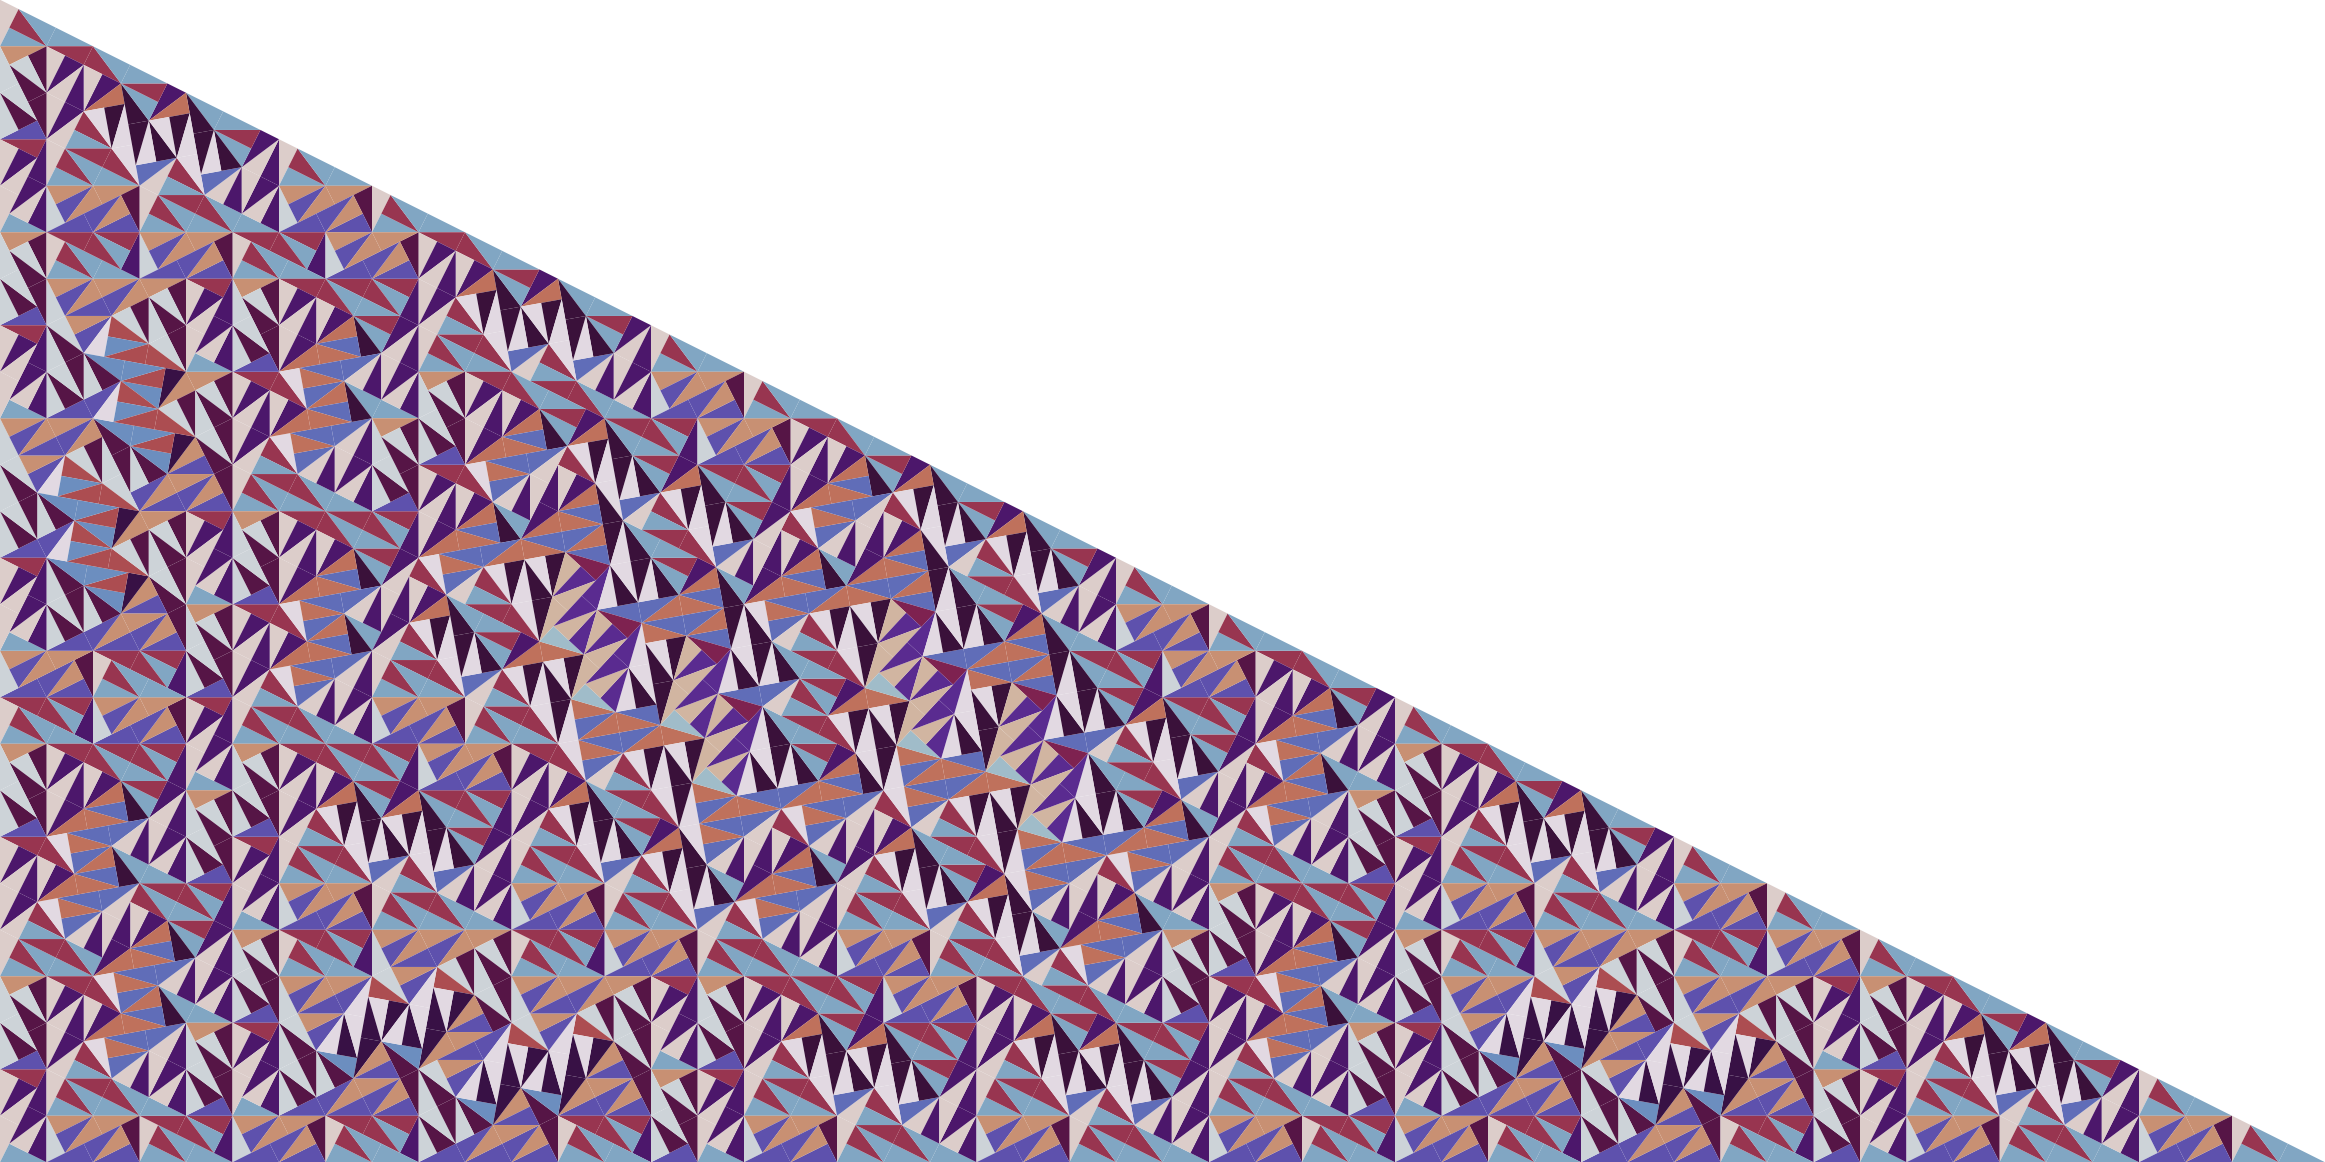
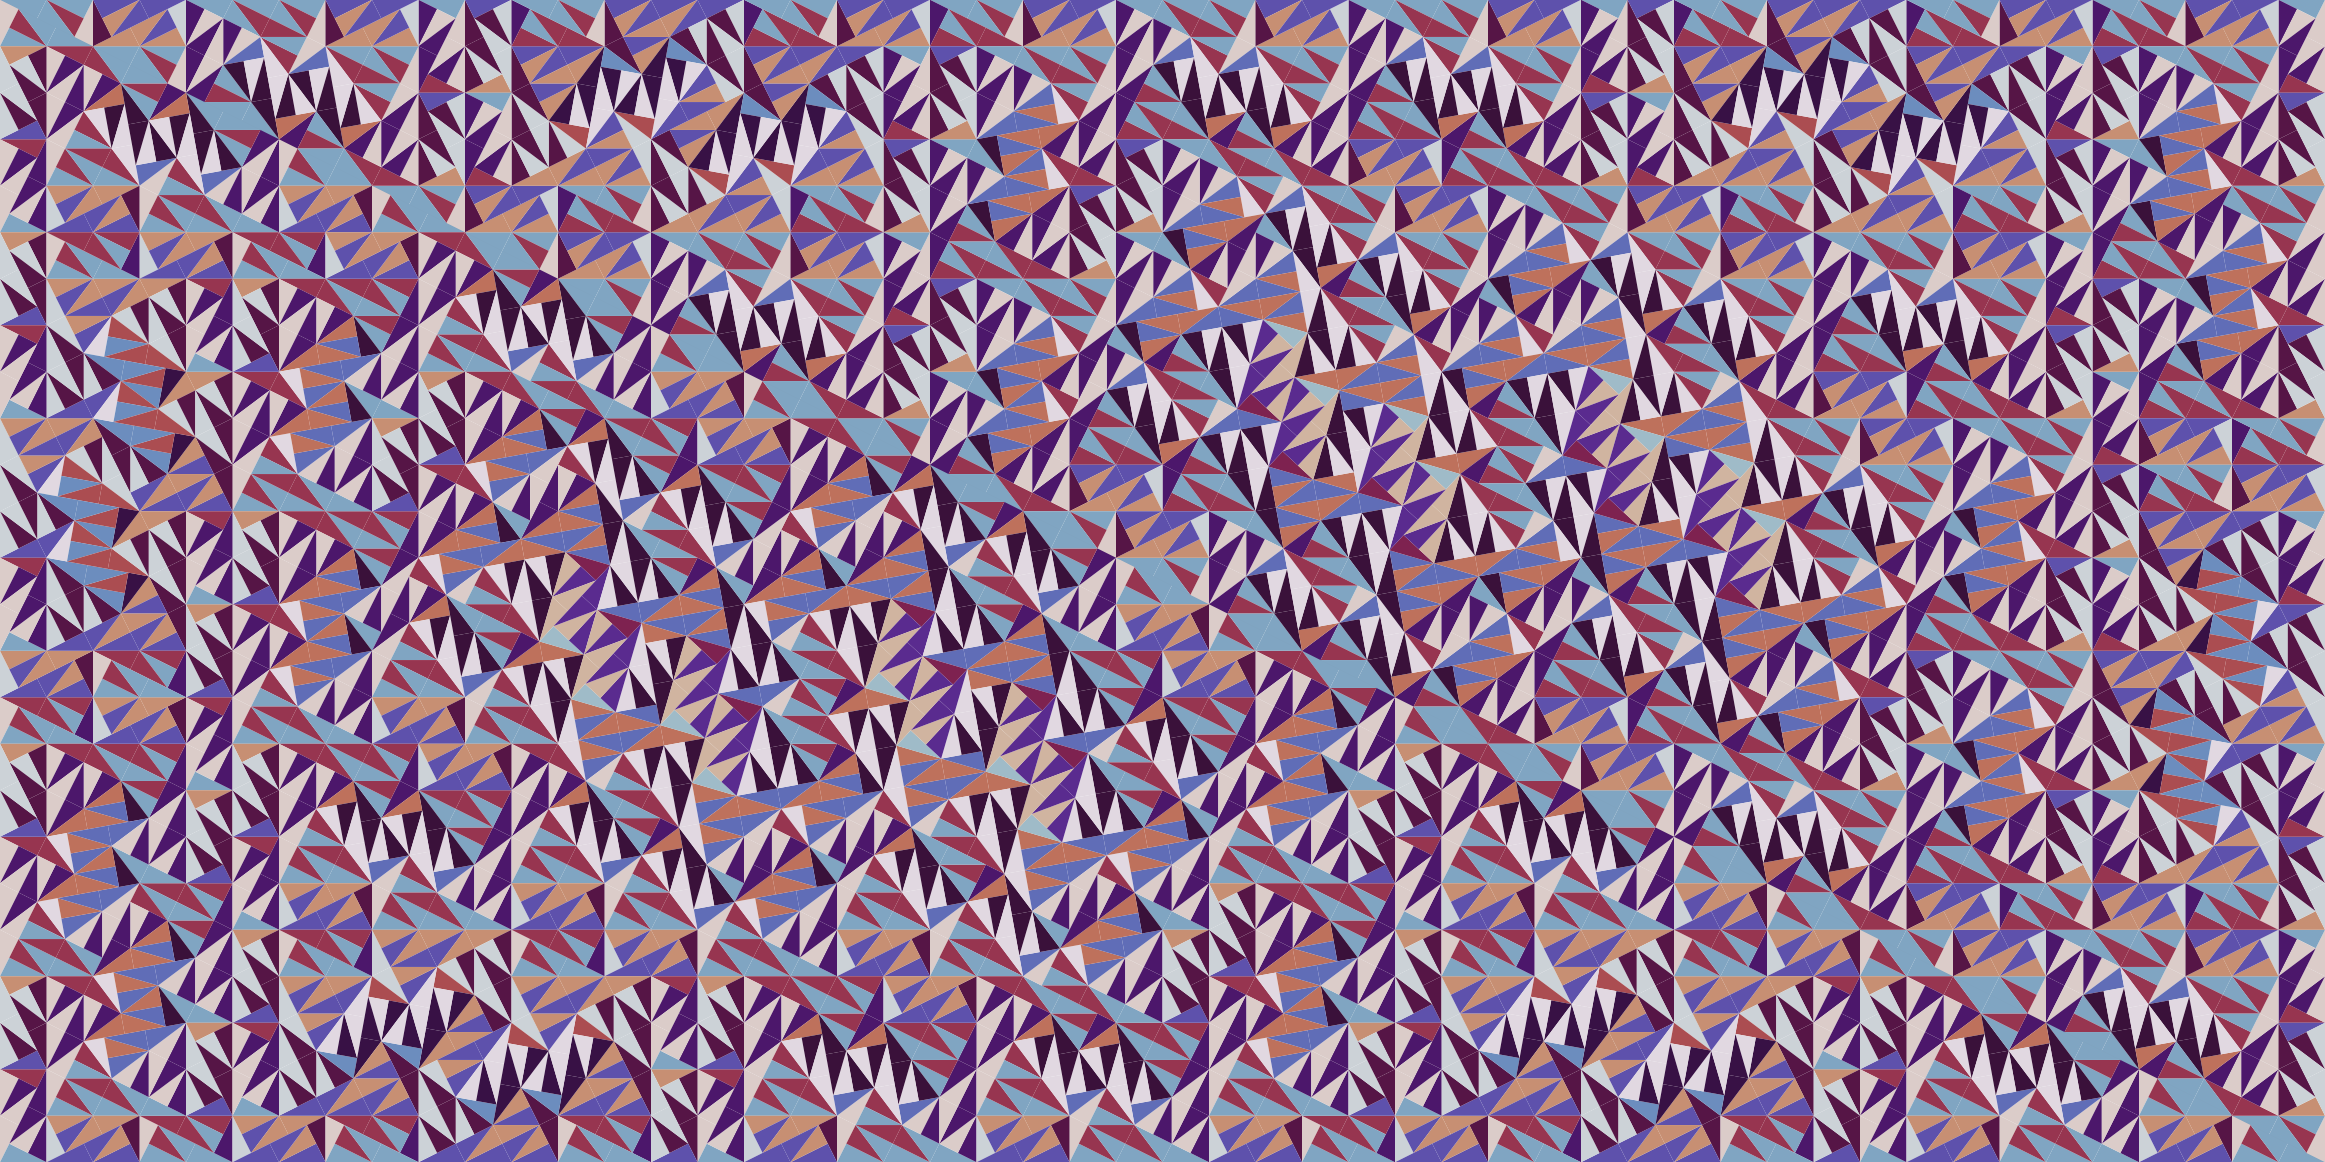
Add option to make rectangular mural.

diff --git a/main.py b/main.py
@@ -8,7 +8,7 @@ from src.triangle import Triangle
 from src.renderer import draw_triangles
 
 
-def main(depth):
+def main(depth, as_rectangle):
     """
     Draws pin wheel tile.
 
@@ -26,7 +26,7 @@ def main(depth):
             new_triangles += triangle.subdivide()
         triangles = new_triangles
 
-    draw_triangles(triangles, fpath="imgs/pinwheel.png")
+    draw_triangles(triangles, as_rectangle, fpath="imgs/pinwheel.png")
 
 
 def parse_arguments():
@@ -37,11 +37,16 @@ def parse_arguments():
         argparse.Namespace
             Argparse namespace containg CLI inputs.
     """
-    parser = argparse.ArgumentParser(
-        description=("Polygon Spiral art creater. Create spiral art!")
-    )
+    parser = argparse.ArgumentParser(description=("Pinwheel tiling program."))
 
     parser.add_argument("depth", type=int, help="Depth of copies to form fractal")
+    parser.add_argument(
+        "--rectangle",
+        dest="as_rectangle",
+        default="n",
+        type=str,
+        help="Print final image as rectangle y/[n]",
+    )
 
     return parser.parse_args()
 
@@ -61,4 +66,4 @@ if __name__ == "__main__":
     ARGS = parse_arguments()
     assert_argument_vals(ARGS)
 
-    main(ARGS.depth)
+    main(ARGS.depth, ARGS.as_rectangle == "y")

diff --git a/src/renderer.py b/src/renderer.py
@@ -12,7 +12,9 @@ import numpy as np
 plt.rcParams["figure.figsize"] = (30, 30)
 
 
-def draw_triangles(triangles, fpath="triangles.png", cmap_resolution=1024):
+def draw_triangles(
+    triangles, as_rectangle, fpath="triangles.png", cmap_resolution=1024
+):
     """
     Renders a set of triangles coloured by phase.
 
@@ -21,6 +23,8 @@ def draw_triangles(triangles, fpath="triangles.png", cmap_resolution=1024):
             List of triangles to render.
         cmap_resolution: int
             Resolution of color map.
+        rectangle: bool
+            Whether to print the final image as a rectangle or triangle.
     """
     fig, ax = plt.subplots()
     ax.set_xlim(0, max(x.max_real for x in triangles))
@@ -43,7 +47,12 @@ def draw_triangles(triangles, fpath="triangles.png", cmap_resolution=1024):
 
     stream, (width, height) = canvas.print_to_buffer()
     img = np.fromstring(stream, np.uint8).reshape((height, width, 4))
-    plt.imsave(fpath, _trim_border(img))
+
+    img = _trim_border(img)
+    if as_rectangle:
+        img += img[::-1, ::-1]
+
+    plt.imsave(fpath, img)
 
 
 def _trim_border(img):
